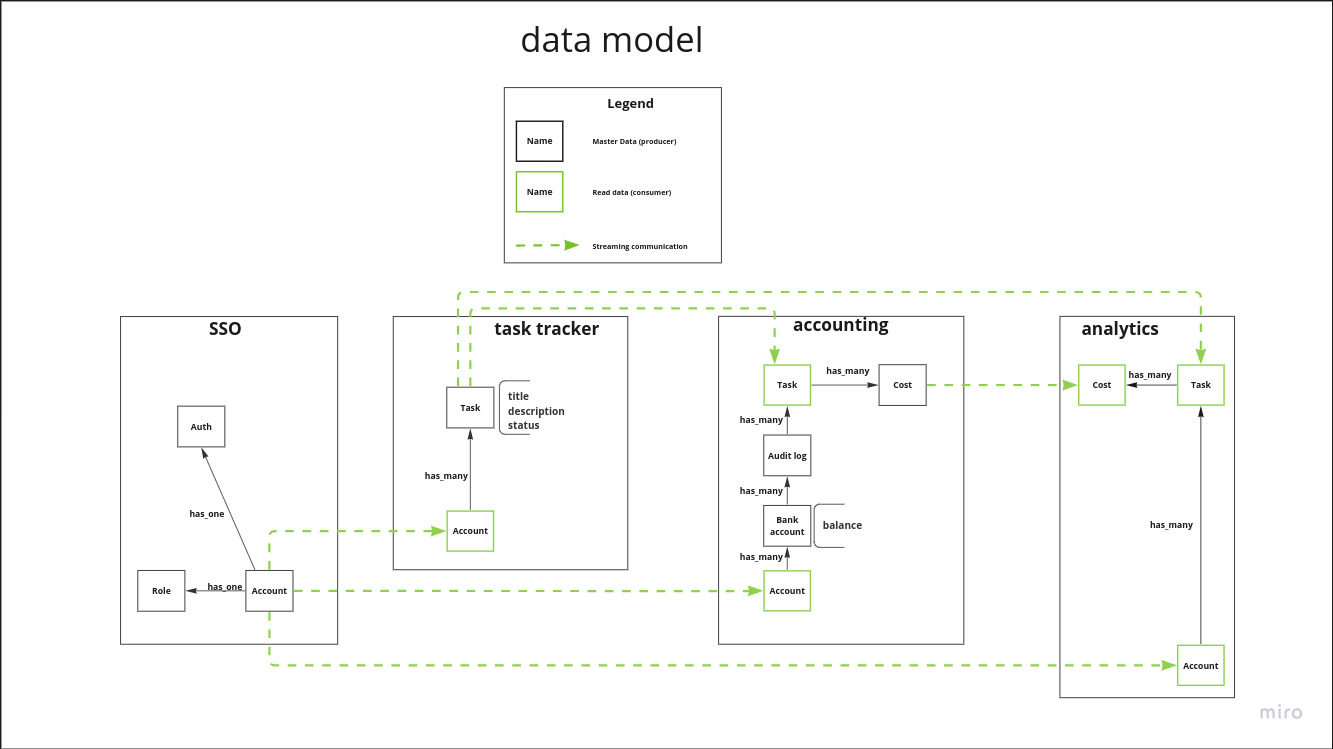
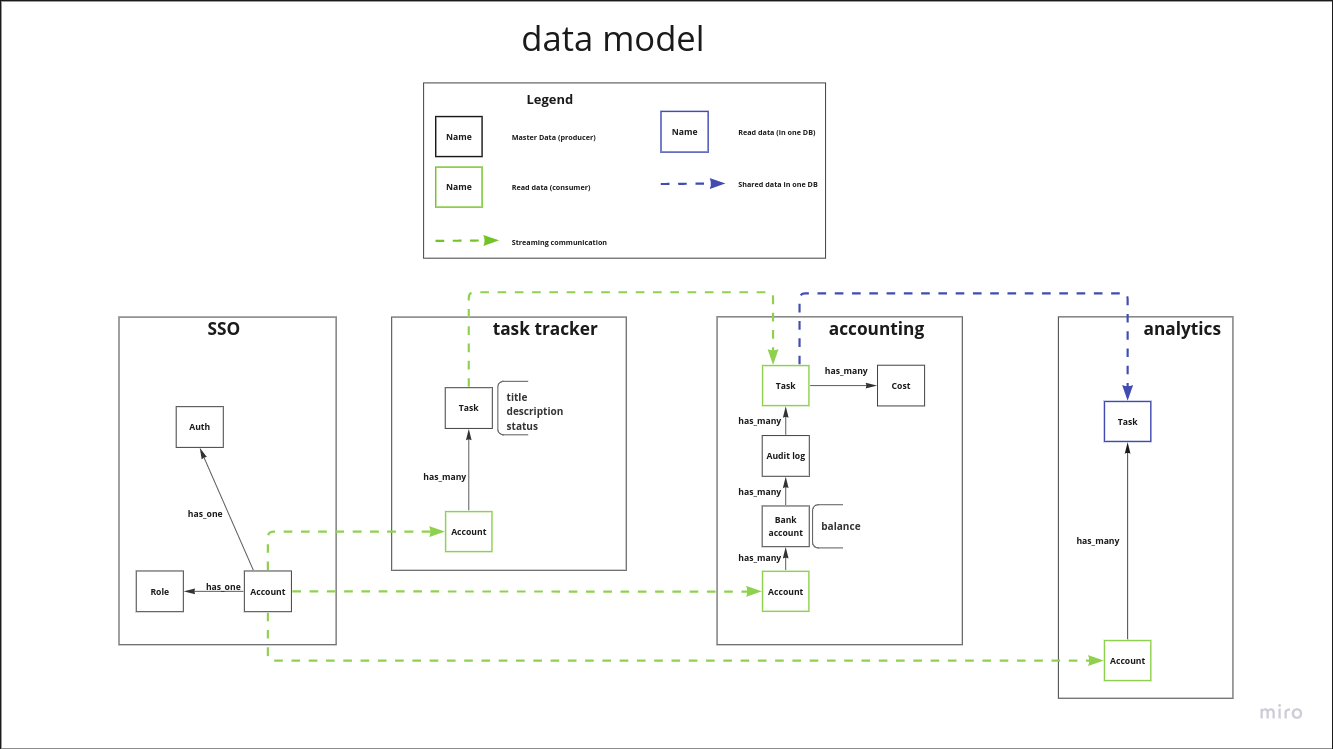
[ates] added analytics ms

diff --git a/analytics/karafka.rb b/analytics/karafka.rb
@@ -1,0 +1,105 @@
+# frozen_string_literal: true
+
+# This file is auto-generated during the install process.
+# If by any chance you've wanted a setup for Rails app, either run the `karafka:install`
+# command again or refer to the install templates available in the source codes
+
+ENV['RACK_ENV'] ||= 'development'
+ENV['KARAFKA_ENV'] ||= ENV['RACK_ENV']
+Bundler.require(:default, ENV['KARAFKA_ENV'])
+
+# Zeitwerk custom loader for loading the app components before the whole
+# Karafka framework configuration
+APP_LOADER = Zeitwerk::Loader.new
+APP_LOADER.enable_reloading
+
+%w[
+  lib
+  app/consumers
+  app/responders
+  app/workers
+].each(&APP_LOADER.method(:push_dir))
+
+APP_LOADER.setup
+APP_LOADER.eager_load
+
+
+#------------------------------------------------------
+
+class EmptyDeserializer
+  def call(message)
+    message.payload
+  end
+end
+
+#------------------------------------------------------
+
+class KarafkaApp < Karafka::App
+  setup do |config|
+    config.kafka.seed_brokers = %w[kafka://192.168.1.67:9092]
+    config.client_id = 'notification_service'
+    config.backend = :inline
+    config.batch_fetching = true
+  end
+
+  # Comment out this part if you are not using instrumentation and/or you are not
+  # interested in logging events for certain environments. Since instrumentation
+  # notifications add extra boilerplate, if you want to achieve max performance,
+  # listen to only what you really need for given environment.
+  Karafka.monitor.subscribe(WaterDrop::Instrumentation::StdoutListener.new)
+  Karafka.monitor.subscribe(Karafka::Instrumentation::StdoutListener.new)
+  Karafka.monitor.subscribe(Karafka::Instrumentation::ProctitleListener.new)
+
+  # Uncomment that in order to achieve code reload in development mode
+  # Be aware, that this might have some side-effects. Please refer to the wiki
+  # for more details on benefits and downsides of the code reload in the
+  # development mode
+  #
+  # Karafka.monitor.subscribe(
+  #   Karafka::CodeReloader.new(
+  #     APP_LOADER
+  #   )
+  # )
+
+  consumer_groups.draw do
+    consumer_group :analytics_group do
+      topic :'accounts-stream' do
+        consumer AnalyticsConsumer
+        deserializer EmptyDeserializer.new
+      end
+
+      topic :'accounts' do
+        consumer AnalyticsConsumer
+        deserializer EmptyDeserializer.new
+      end
+
+      topic :'tasks-stream' do
+        consumer AnalyticsConsumer
+        deserializer EmptyDeserializer.new
+      end
+
+      topic :'inprogress-tasks' do
+        consumer AnalyticsConsumer
+        deserializer EmptyDeserializer.new
+      end
+
+      topic :'closed-tasks' do
+        consumer AnalyticsConsumer
+        deserializer EmptyDeserializer.new
+      end
+
+      topic :'task-statuses' do
+        consumer AnalyticsConsumer
+        deserializer EmptyDeserializer.new
+      end
+    end
+  end
+
+end
+
+Karafka.monitor.subscribe('app.initialized') do
+  # Put here all the things you want to do after the Karafka framework
+  # initialization
+end
+
+KarafkaApp.boot!

diff --git a/accounting/apps/kafka_app/consumers/account_changes.rb b/accounting/apps/kafka_app/consumers/account_changes.rb
@@ -11,7 +11,7 @@ module KafkaApp
 
           case message['event_name']
           when 'AccountCreated'
-            # TODO: if you want
+            # TODO: store accounts in DB
           when 'AccountUpdated'
             account_repo.update_by_public_id(
               message['data']['public_id'],
@@ -19,7 +19,7 @@ module KafkaApp
               position: message['data']['position']
             )
           when 'AccountDeleted'
-            # TODO: if you want
+            # TODO: remove accounts from DB
           when 'AccountRoleChanged'
             account_repo.update_by_public_id(message['data']['public_id'], role: message['data']['role'])
           else

diff --git a/analytics/app/responders/application_responder.rb b/analytics/app/responders/application_responder.rb
@@ -1,0 +1,11 @@
+# frozen_string_literal: true
+
+# Application responder from which all Karafka responders should inherit
+# You can rename it if it would conflict with your current code base (in case you're integrating
+# Karafka with other frameworks)
+class ApplicationResponder < Karafka::BaseResponder
+  # This method needs to be implemented in each of the responders
+  # def respond(data)
+  #   respond_to :topic, data.to_json
+  # end
+end

diff --git a/analytics/app/consumers/application_consumer.rb b/analytics/app/consumers/application_consumer.rb
@@ -1,0 +1,7 @@
+# frozen_string_literal: true
+
+# Application consumer from which all Karafka consumers should inherit
+# You can rename it if it would conflict with your current code base (in case you're integrating
+# Karafka with other frameworks)
+class ApplicationConsumer < Karafka::BaseConsumer
+end

diff --git a/analytics/app/consumers/analytics_consumer.rb b/analytics/app/consumers/analytics_consumer.rb
@@ -1,0 +1,9 @@
+class AnalyticsConsumer < ApplicationConsumer
+  def consume
+    params_batch.each do |message|
+      # store all events into analytics DB with specific format
+      
+      # TODO: write data analytics related code here
+    end
+  end
+end

diff --git a/README.md b/README.md
@@ -18,5 +18,9 @@ localhost:3000/oauth/applications - oauth app managment
 task-tracker service
 localhost:2300 - main
 localhost:2300/auth/login - oauth login
+
+accounting service
+localhost:2400 - main
+localhost:2400/auth/login - oauth login
 ```
 

diff --git a/accounting/README.md b/accounting/README.md
@@ -1,4 +1,4 @@
-# Task tracker SaaS repository
+# Accounting SaaS repository
 
 ## Start project
 
